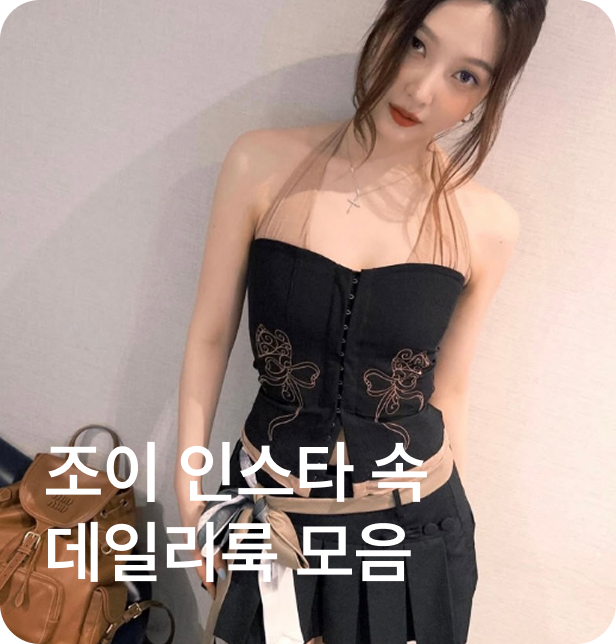
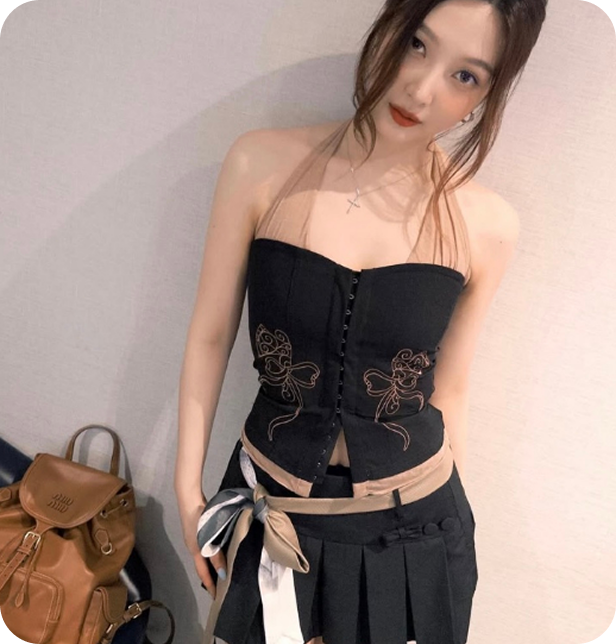
마이페이지 디테일 수정중

Changed region(s): [[0.0617, 0.8075, 0.6786, 0.9006], [0.0617, 0.6832, 0.7094, 0.7764]]

diff --git a/2nd fandom-app/src/pages/Idol/MyPage/Media.jsx b/2nd fandom-app/src/pages/Idol/MyPage/Media.jsx
@@ -7,14 +7,18 @@ import searchDark from '../../../assets/dark/dark_search.png';
 
 // ✅ 이미지 import
 import live1 from '../../../assets/mypage/media/newjeansLive.png';
-import live2 from '../../../assets/mypage/media/jennieLive.png';
+import live2 from '../../../assets/mypage/media/newjeansLive2.png';
+import live3 from '../../../assets/mypage/media/newjeansLive3.png';
+import live4 from '../../../assets/mypage/media/newjeansLive4.png';
 import video1 from '../../../assets/mypage/media/blackpinkMovie.png';
 import video2 from '../../../assets/mypage/media/jennieMovie.png';
 import video3 from '../../../assets/mypage/media/newjeansMovie.png';
 import post1 from '../../../assets/mypage/media/feed1.png';
 import post2 from '../../../assets/mypage/media/feed2.png';
 import post3 from '../../../assets/mypage/media/feed3.png';
-import recent1 from '../../../assets/mypage/media/blackpinkLiveCover.png';
+import recent1 from '../../../assets/mypage/media/newjeansLiveCover.png';
+import recent2 from '../../../assets/mypage/media/newjeansLiveCover2.png';
+
 
 
 const Media = () => {
@@ -27,28 +31,28 @@ const Media = () => {
 
   // ✅ 각 섹션별 이미지 데이터 3개씩
   const liveVideos = [
+    { img: live2, title: '뉴진스 파자마 파티 💖', artist: 'NewJeans', date: '2025.07.18' },
     { img: live1, title: '뉴진스 올해 첫 라방! 🥰', artist: 'NewJeans', date: '2025.01.01' },
-    { img: live2, title: '제니 도쿄 라이브', artist: 'BLACKPINK', date: '2025.07.18' },
-    { img: live2, title: '제니 서울 라방', artist:'BLACKPINK', date: '2025.07.18'},
+    { img: live3, title: '뉴진스 해피 크리스마스 데이 🎄', artist:'NewJeans', date: '2024.12.25'},
   ];
 
   const videos = [
+     { img: video3, title: '[Jeans] 지니랜드 EP.1 축 개업 ♨ ' },
     { img: video1, title: "BLACKPIИK 'JUMP' New M/V" },
     { img: video2, title: "JENNIE 1st  Studio Album 'Ruby -Teaser'" },
-    { img: video3, title: '[Jeans] 지니랜드 EP.1 축 개업 ♨ ' },
+    
+  ];
+ const posts = [
+    { img: post1, text: '뉴진스 하니\n웜톤 메이크업' },
+    { img: post2, text: '조이 인스타 속\n데일리룩 모음' },
+    { img: post3, text: '지드래곤\n패션 정보 모음' },
   ];
 
-  const posts = [
-    { img: post1},
-    { img: post2},
-    { img: post3},
-  ];
 
   const recentWatched = [
-  {img: recent1, title: '블핑 5주년 라방✨', artist: 'BLACKPINK', date: '2025.07.16',isLive: true,},
-  {img: recent1, title: '블핑 5주년 라방✨', artist: 'BLACKPINK', date: '2025.07.16', isLive: true,
-  },
-  {img: recent1, title: '블핑 5주년 라방✨', artist: 'BLACKPINK', date: '2025.07.16',isLive: true,
+  {img: recent1, title: '[Jeans] 조금 이른 봄놀이', artist: 'NewJeans', date: '2025.07.20',isLive: true,},
+  {img: recent2, title: '[Jeans] OMG-Dace practice', artist: 'NewJeans', date: '2025.07.20', isLive: true,},
+  {img: live4, title: '뉴진스 해린 생일 라방🎉', artist: 'NewJeans', date: '2025.07.20',isLive: true,
   },
 ];
 
@@ -100,18 +104,24 @@ const Media = () => {
         </div>
       </div>
 
-      {/* 게시물 */}
-      <div className="mypage-media-section">
-        <p className="media-section-title">게시물</p>
-        <div className="scroll-wrapper post-wrapper">
-          {posts.map((item, idx) => (
-            <div className="media-card post-card" key={idx}>
-              <img src={item.img} alt={item.title}className='post-img' />
-              <p className="media-title">{item.title}</p>
+        {/* 게시물 */}
+    <div className="mypage-media-section">
+      <p className="media-section-title">게시물</p>
+      <div className="scroll-wrapper post-wrapper">
+        {posts.map((item, idx) => (
+          <div className="media-card post-card" key={idx}>
+            <div className="media-image-wrapper">
+              <img src={item.img} alt={`피드${idx}`} className="post-img" />
+              <p className="Media-overlay-text">
+                {item.text.split('\n').map((line, i) => (
+                  <span key={i}>{line}<br /></span>
+                ))}
+              </p>
             </div>
-          ))}
-        </div>
+          </div>
+        ))}
       </div>
+    </div>
 
      {/* 어제 본 콘텐츠 */}
     <div className="mypage-media-section">

diff --git a/2nd fandom-app/src/pages/Idol/MyPage/Collection.jsx b/2nd fandom-app/src/pages/Idol/MyPage/Collection.jsx
@@ -53,19 +53,19 @@ const Collection = () => {
       <div className="collection-grid">
         <div className="collection-item">
           <img src={groupImg} alt="group" />
-          <div className="overlay-text">단체 사진</div>
+          <div className="Collection-overlay-text">단체 사진</div>
         </div>
         <div className="collection-item">
           <img src={boyfriendImg} alt="boyfriend" />
-          <div className="overlay-text">남친짤</div>
+          <div className="Collection-overlay-text">남친짤</div>
         </div>
         <div className="collection-item">
           <img src={fanartImg} alt="fanart" />
-          <div className="overlay-text">팬아트</div>
+          <div className="Collection-overlay-text">팬아트</div>
         </div>
         <div className="collection-item">
           <img src={photoImg} alt="real" />
-          <div className="overlay-text">직찍 모음</div>
+          <div className="Collection-overlay-text">직찍 모음</div>
         </div>
       </div>
     </div>

diff --git a/2nd fandom-app/src/pages/Idol/MyPage/Media.css b/2nd fandom-app/src/pages/Idol/MyPage/Media.css
@@ -5,7 +5,7 @@
 
 /* 컨텐츠 */
 .mypage-media-section {margin-bottom: 25px;}
-.media-section-title {font-size: 17px; font-weight: 650; margin-bottom: 5px;}
+.media-section-title {font-size: 17px; font-weight: 600; margin-bottom: 5px;}
 .media-title {font-size: 13.5px; font-weight: 500;line-height: 1.3;}
 .media-sub {display: flex; justify-content: flex-start; gap: 12px; font-size: 12px;
 margin-top: 3px;}
@@ -20,6 +20,19 @@ margin-top: 3px;}
 border-radius: 12px; overflow: hidden;}
 /* 게시물 이미지 */
 .post-img {width: 100%; height: 100%;object-fit: contain; display: block;}
+.media-image-wrapper {
+  position: relative;
+  width: 100%;
+  height: 100%;
+}
+
+.Media-overlay-text {position: absolute; top: 70%; left: 12%;color: white; font-weight: 500;
+ font-size: 14px; pointer-events: none;white-space: pre-line;}
+
+
+
+
+
 
 /* 스와이프 */
 .scroll-wrapper {display: flex;flex-direction: row;gap: 12px;overflow-x: auto;

diff --git a/2nd fandom-app/src/pages/Idol/Home/Vote.jsx b/2nd fandom-app/src/pages/Idol/Home/Vote.jsx
@@ -1,4 +1,5 @@
 import React, { useState } from 'react';
+import { useNavigate } from 'react-router-dom';
 import './Vote.css';
 import '../../../index.css';
 import './../../../components/Popup.css';
@@ -35,6 +36,7 @@ const voteList = [
 ];
 
 const Vote = () => {
+   const navigate = useNavigate(); // ✅ 추가
   const [selectedVote, setSelectedVote] = useState(null);
   const [showConfirm, setShowConfirm] = useState(false);
   const [showPopup, setShowPopup] = useState(false);
@@ -52,6 +54,7 @@ const Vote = () => {
   const handleClosePopup = () => {
     setShowPopup(false);
     setSelectedVote(null);
+   navigate('/idol/mypage');
   };
 
   return (

diff --git a/2nd fandom-app/src/pages/Idol/MyPage/Mypage.css b/2nd fandom-app/src/pages/Idol/MyPage/Mypage.css
@@ -49,7 +49,7 @@ border-bottom: none;}
 .voteBox, .QuizBox {flex: 1; margin-left: 10px; display: flex;flex-direction: column;justify-content: center;}
 .voteBox .top, .QuizBox .top {font-size: 12px;color: #797979;margin-bottom: 2px;
 text-align: left;font-weight: 500;}
-.voteBox .bottom, .QuizBox .bottom {font-size: 14px; color: #797979;font-weight: 600;text-align: left;}
+.voteBox .bottom, .QuizBox .bottom {font-size: 14px; color: #797979; font-weight: 550; text-align: left;}
 .botton {background-color: #FFD700; padding: 8px 15px; border-radius: 7px; font-weight: 550; font-size: 14px; color: #494949;}
 
 

diff --git a/2nd fandom-app/src/pages/Idol/MyPage/Collection.css b/2nd fandom-app/src/pages/Idol/MyPage/Collection.css
@@ -5,7 +5,7 @@ margin-bottom: 35px;}
 .title {font-weight: 500; margin-top: 5px; font-size: 15px;}
 .collection-count{ font-size: 13px; margin: 0;}
 .subtitle {font-size: 18px;font-weight: 600; margin-bottom: 13px;}
-.overlay-text {position: absolute;top: 50%; left: 50%; transform: translate(-50%,-50%);
+.Collection-overlay-text {position: absolute;top: 50%; left: 50%; transform: translate(-50%,-50%);
 color: white; font-weight: 500; font-size: 14px;}
 
 /* 다크모드 */

diff --git a/2nd fandom-app/src/pages/Attendance.css b/2nd fandom-app/src/pages/Attendance.css
@@ -42,10 +42,16 @@
     width: 206px;
   }
 
-  .character-area img {
+  .attendance-character-area img {
     width: 85%;
   }
   
+.attendance-character-area {
+  display: flex;
+  justify-content: center; /* ✅ 가운데 정렬 */
+}
+
+
   /* 출석 이미지 */
   .attendance-character {
     text-align: center;

diff --git a/2nd fandom-app/src/pages/Attendance.jsx b/2nd fandom-app/src/pages/Attendance.jsx
@@ -45,7 +45,7 @@ const Attendance = () => {
           </div>
         </div>
 
-        <div className="character-area">
+        <div className="attendance-character-area">
          <img
     className="attendance-stamp"
     src={

diff --git a/2nd fandom-app/src/pages/Idol/Home/Vote.css b/2nd fandom-app/src/pages/Idol/Home/Vote.css
@@ -142,7 +142,7 @@
   }
   
   .modal-sub {
-    font-size: 18px;
+    font-size: 16px;
     color: #494949;
   }
 
